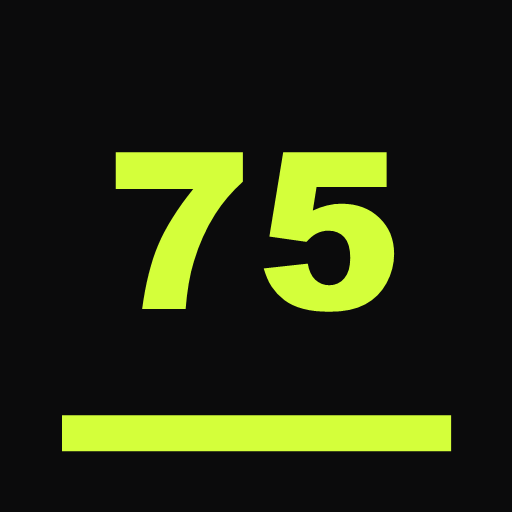
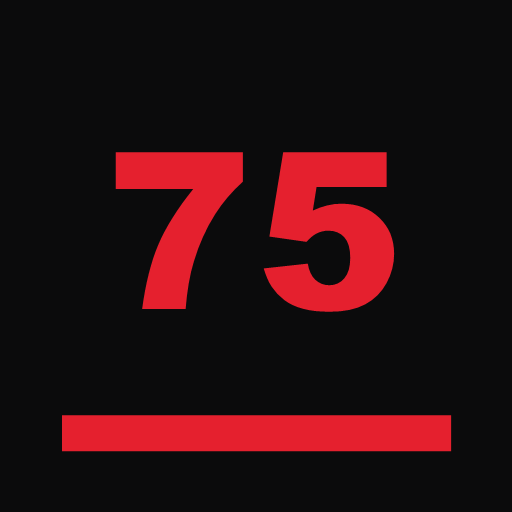
Switch accent color from lime to red; warnings to orange

Changed region(s): [[0.5, 0.2812, 0.7812, 0.625], [0.0938, 0.8125, 0.9062, 0.9062], [0.2188, 0.2812, 0.5, 0.625]]

diff --git a/styles.css b/styles.css
@@ -7,10 +7,10 @@
   --line: #2e2e35;
   --text: #f5f5f2;
   --muted: #9a9aa3;
-  --accent: #d4ff3a;
-  --accent-ink: #0b0b0c;
-  --accent-text: #d4ff3a;
-  --danger: #ff5c4d;
+  --accent: #e5202e;
+  --accent-ink: #ffffff;
+  --accent-text: #ff4d55;
+  --danger: #ff8a3d;
   --warn: #ffb02e;
   --radius: 20px;
   --nav-h: 64px;
@@ -27,8 +27,8 @@
     --line: #d6d5cd;
     --text: #0b0b0c;
     --muted: #5c5c64;
-    --accent-text: #3d5c00;
-    --danger: #d42a1c;
+    --accent-text: #c8102e;
+    --danger: #c2410c;
     --warn: #a86400;
     color-scheme: light;
   }
@@ -41,8 +41,8 @@
   --line: #d6d5cd;
   --text: #0b0b0c;
   --muted: #5c5c64;
-  --accent-text: #3d5c00;
-  --danger: #d42a1c;
+  --accent-text: #c8102e;
+  --danger: #c2410c;
   --warn: #a86400;
   color-scheme: light;
 }

diff --git a/js/feedback.js b/js/feedback.js
@@ -66,7 +66,7 @@ export function confetti() {
   canvas.height = h * dpr;
   ctx.scale(dpr, dpr);
 
-  const colors = ['#D4FF3A', '#FFFFFF', '#FF5C39', '#3AD4FF', '#FFD23A'];
+  const colors = ['#E5202E', '#FFFFFF', '#FF6B6B', '#3AD4FF', '#FFD23A'];
   const parts = Array.from({ length: 160 }, () => ({
     x: w / 2 + (Math.random() - 0.5) * 80,
     y: h * 0.35,

diff --git a/sw.js b/sw.js
@@ -1,7 +1,7 @@
 // Offline support: the app shell is cached, served from cache, and refreshed in the
 // background, so a new deploy shows up on the next launch. Bump VERSION when the file list changes.
 
-const VERSION = 'ironclad-v1';
+const VERSION = 'ironclad-v2';
 const SHELL = [
   './',
   './index.html',
